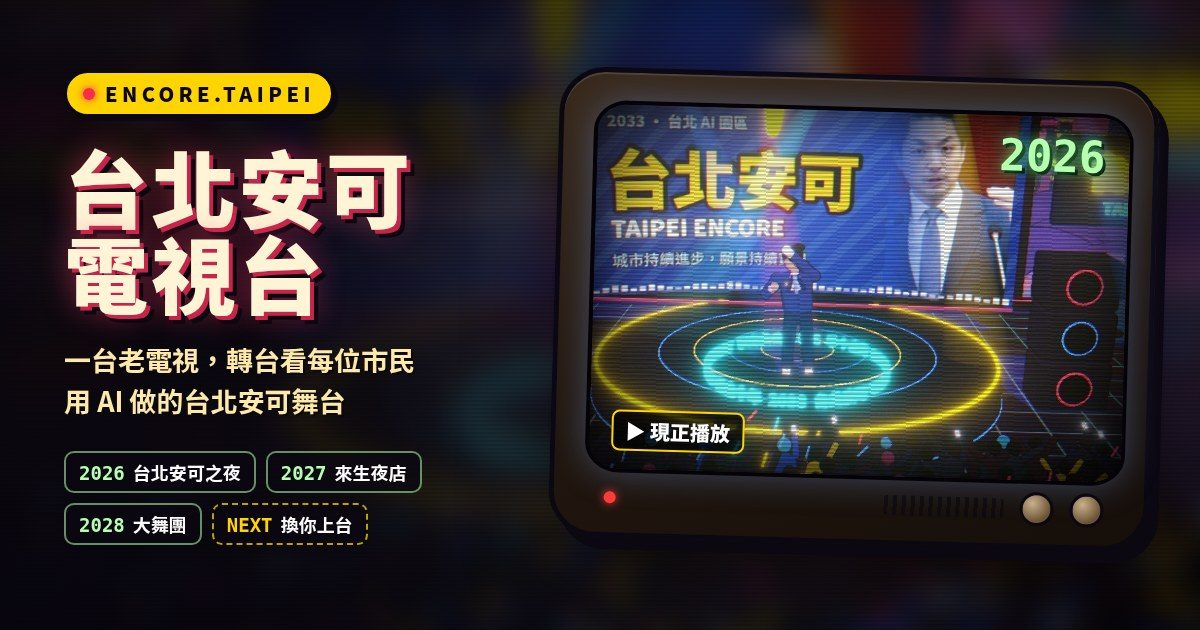
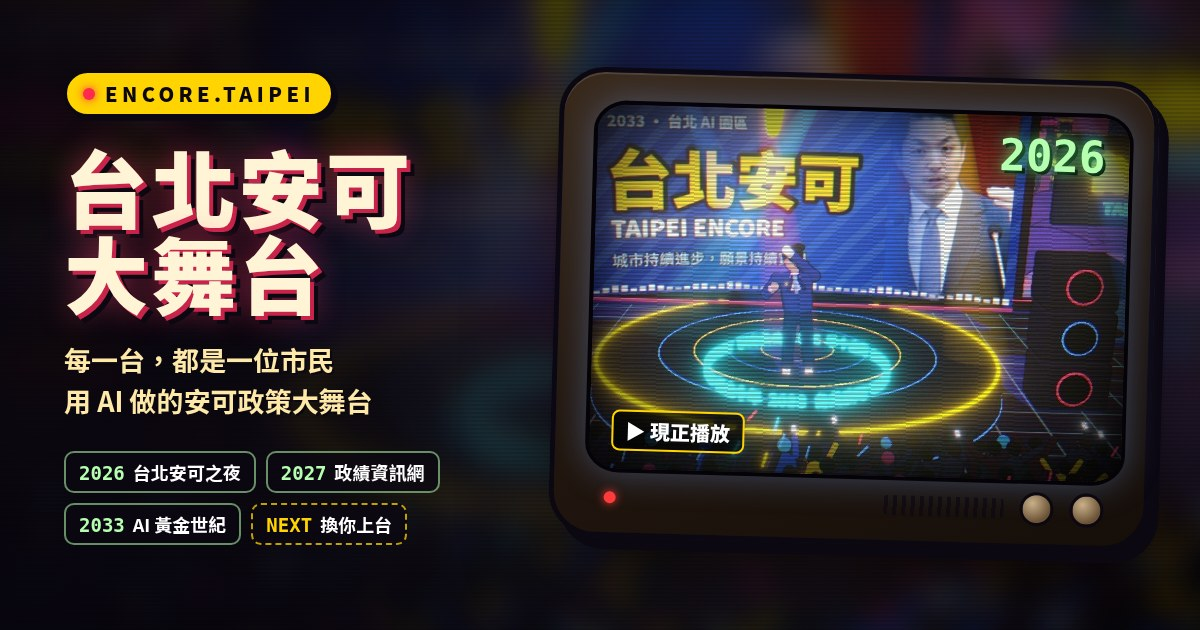
台北安可大舞台 brand everywhere, new opening line, home share text, pill buttons for the opening choices (ported from the beta)

Changed region(s): [[0.0308, 0.5429, 0.3392, 0.6635], [0.0308, 0.3619, 0.2158, 0.5127], [0.0617, 0.7238, 0.37, 0.8746]]

diff --git a/index.html b/index.html
@@ -6,26 +6,26 @@
     <meta name="viewport" content="width=device-width, initial-scale=1.0, viewport-fit=cover" />
     <meta name="theme-color" content="#0b0906" />
     <meta name="referrer" content="strict-origin-when-cross-origin" />
-    <title>台北安可大舞台 ENCORE.TAIPEI｜每一台都是市民用 AI 做的台北安可舞台</title>
+    <title>台北安可大舞台｜台北安可之夜・蔣萬安黃金十年政見 3D 互動派對</title>
     <meta
       name="description"
-      content="打開電視就是第 2026 台〈台北安可之夜〉：2033 年台北 AI 園區的夜店，蔣萬安在台上跳舞，黃金十年政見 3D 飛進場。拿起遙控器往下轉，每一台都是市民用 AI 親手做的台北安可舞台，你也可以上架一台。"
+      content="打開電視就是第 2026 台〈台北安可之夜〉：2033 年台北 AI 園區的夜店，蔣萬安在台上跳舞，黃金十年政見 3D 飛進場，台下高喊四年政績。拿起遙控器轉台，每一台都是一位市民用 AI 做的安可政策大舞台，你也可以上台。"
     />
-    <meta name="keywords" content="台北安可,蔣萬安,台北安可大舞台,台北安可之夜,ENCORE.TAIPEI,台北安可電視台,AI 創作,市民創作,3D 互動" />
+    <meta name="keywords" content="台北安可,蔣萬安,台北安可大舞台,台北安可之夜,黃金十年,ENCORE.TAIPEI,AI 創作,市民創作,3D 互動" />
     <meta name="author" content="台北安可大舞台 粉絲創作" />
 
     <meta property="og:type" content="website" />
     <meta property="og:locale" content="zh_TW" />
     <meta property="og:site_name" content="台北安可大舞台" />
-    <meta property="og:title" content="台北安可大舞台 ENCORE.TAIPEI｜每一台都是市民用 AI 做的台北安可舞台" />
-    <meta property="og:description" content="打開電視就是第 2026 台〈台北安可之夜〉，拿起遙控器往下轉，每一台都是市民用 AI 做的台北安可舞台，你也可以上架一台。" />
+    <meta property="og:title" content="台北安可大舞台｜台北安可之夜・蔣萬安黃金十年政見 3D 互動派對" />
+    <meta property="og:description" content="打開電視就是第 2026 台〈台北安可之夜〉：蔣萬安在台上跳舞，黃金十年政見 3D 飛進場。拿起遙控器轉台，每一台都是一位市民用 AI 做的安可政策大舞台。" />
     <meta property="og:image" content="%SITE_ROOT%og/home.jpg" />
     <meta property="og:image:width" content="1200" />
     <meta property="og:image:height" content="630" />
     <meta property="og:image:alt" content="台北安可之夜：霓虹舞台上的市長和揮著螢光棒的群眾" />
     <meta name="twitter:card" content="summary_large_image" />
-    <meta name="twitter:title" content="台北安可大舞台 ENCORE.TAIPEI｜每一台都是市民用 AI 做的台北安可舞台" />
-    <meta name="twitter:description" content="打開電視就是第 2026 台〈台北安可之夜〉，拿起遙控器往下轉，每一台都是市民用 AI 做的台北安可舞台，你也可以上架一台。" />
+    <meta name="twitter:title" content="台北安可大舞台｜台北安可之夜・蔣萬安黃金十年政見 3D 互動派對" />
+    <meta name="twitter:description" content="打開電視就是第 2026 台〈台北安可之夜〉：蔣萬安在台上跳舞，黃金十年政見 3D 飛進場。拿起遙控器轉台，每一台都是一位市民用 AI 做的安可政策大舞台。" />
     <meta name="twitter:image" content="%SITE_ROOT%og/home.jpg" />
 
     <script type="application/ld+json">
@@ -34,7 +34,7 @@
         "@type": "CollectionPage",
         "name": "台北安可大舞台",
         "alternateName": "ENCORE.TAIPEI",
-        "description": "收錄市民用 AI 創作的台北安可 3D 舞台，一台電視、一個頻道一座舞台。",
+        "description": "收錄市民用 AI 創作的台北安可 3D 舞台：拿起遙控器轉台，每一台都是一座安可政策大舞台。第 2026 台是〈台北安可之夜〉。",
         "inLanguage": "zh-Hant-TW",
         "isAccessibleForFree": true
       }
@@ -44,7 +44,7 @@
     <div id="root"></div>
     <noscript>
       <h1>台北安可大舞台 ENCORE.TAIPEI</h1>
-      <p>空房間裡一台老電視。第 2026 台是〈台北安可之夜〉，往下轉，每一台都是市民用 AI 親手做的台北安可舞台。請開啟 JavaScript 打開電視。</p>
+      <p>每一台，都是一位市民用 AI 做的安可政策大舞台。第 2026 台是〈台北安可之夜〉。請開啟 JavaScript 打開電視。</p>
     </noscript>
     <script type="module" src="/src/tv/main.tsx"></script>
   </body>

diff --git a/src/tv/TvApp.tsx b/src/tv/TvApp.tsx
@@ -1,5 +1,5 @@
 import { lazy, Suspense, useCallback, useEffect, useMemo, useRef, useState } from 'react'
-import { Volume2 } from 'lucide-react'
+import { Building2, Clapperboard, Volume2 } from 'lucide-react'
 import { track } from '@/lib/analytics'
 import { edgeSmoother, rgbHex, setPageEdgeColor, type Rgb } from '@/lib/page-edge'
 import { FIRST_CHANNEL, fetchLiveChannels, type Channel } from './channel-data'
@@ -93,7 +93,7 @@ export function TvApp() {
       const slot = s.dial[s.index]
       if (!slot) return
       const title = slot.kind === 'empty' ? '訊號徵求中' : slot.channel.title
-      syncUrl(slot.number, `第 ${slot.number} 台｜${title}｜台北安可電視台`)
+      syncUrl(slot.number, `第 ${slot.number} 台｜${title}｜台北安可大舞台`)
     }
     sync()
     return useTv.subscribe((s, prev) => {
@@ -301,7 +301,7 @@ export function TvApp() {
 
   return (
     <main className="relative h-full w-full overflow-hidden bg-black">
-      <h1 className="sr-only">台北安可電視台 ENCORE.TAIPEI：轉台看每個人做的台北安可舞台</h1>
+      <h1 className="sr-only">台北安可大舞台 ENCORE.TAIPEI：轉台看每一位市民用 AI 做的安可政策大舞台</h1>
 
       {phase === 'tv' && (
         <>
@@ -362,10 +362,8 @@ export function TvApp() {
       {phase === 'gate' && !resuming && (
         <div className="fixed inset-0 z-30 flex flex-col items-center justify-end bg-[radial-gradient(ellipse_at_50%_35%,transparent_30%,rgba(0,0,0,0.65))] p-6 pb-[max(2.5rem,env(safe-area-inset-bottom))] text-center">
           <p className="tv-caption text-xs font-black tracking-[0.5em] text-[#ffd400]/90">ENCORE.TAIPEI</p>
-          <h2 className="tv-caption mt-2 text-[34px] leading-none font-black tracking-[0.08em] text-[#fff4d6] sm:text-[52px]">台北安可電視台</h2>
-          <p className="tv-caption mt-3 max-w-md text-sm leading-relaxed text-[#f3e6bf]/85 sm:text-base">
-            空房間裡有一台電視。每一台，都是一位市民用 AI 做的台北安可舞台。
-          </p>
+          <h2 className="tv-caption mt-2 text-[34px] leading-none font-black tracking-[0.08em] text-[#fff4d6] sm:text-[52px]">台北安可大舞台</h2>
+          <p className="tv-caption mt-3 max-w-md text-sm leading-relaxed text-[#f3e6bf]/85 sm:text-base">每一台，都是一位市民用 AI 做的安可政策大舞台。</p>
           <p className="sound-hint mt-5 inline-flex items-center gap-2 rounded-full border-2 border-[#ffd400]/80 bg-black/55 px-4 py-1.5 text-sm font-black text-[#ffd400] sm:text-base">
             <Volume2 className="sound-hint-icon size-5 shrink-0" aria-hidden />
             請打開電腦或手機的聲音，效果最好
@@ -379,14 +377,18 @@ export function TvApp() {
           >
             ▶ 打開電視 · 第 {deepLink ?? FIRST_CHANNEL} 台
           </button>
-          {!deepLink && (
-            <button type="button" className="tv-caption mt-4 text-sm text-white/70 underline underline-offset-4 hover:text-white" onClick={() => powerOn(false)}>
-              從頭看開場：台北安可新聞特輯
-            </button>
-          )}
-          <a href={`${BASE}tower/`} className="tv-caption mt-3 text-sm font-bold text-[#ffd400]/90 underline underline-offset-4 hover:text-[#ffd400]">
-            新玩法：搭無人機逛「台北安可大樓」→
-          </a>
+          <div className="mt-4 flex flex-wrap items-center justify-center gap-2">
+            {!deepLink && (
+              <button type="button" className="gate-chip" onClick={() => powerOn(false)}>
+                <Clapperboard className="size-4 shrink-0 text-white/70" aria-hidden />
+                從頭看開場・台北安可新聞特輯
+              </button>
+            )}
+            <a href={`${BASE}tower/`} className="gate-chip">
+              <Building2 className="size-4 shrink-0 text-[#ffd400]" aria-hidden />
+              <span className="text-[#ffd400]">新玩法</span>搭無人機逛台北安可大樓
+            </a>
+          </div>
           {DUO_MODE === 'tv' && (
             <p className="tv-caption mt-3 max-w-sm text-sm font-bold text-[#b6ffb0]">電視模式：打開後，用另一支手機掃畫面上的 QR code 當遙控器。</p>
           )}

diff --git a/src/submit/SubmitApp.tsx b/src/submit/SubmitApp.tsx
@@ -17,7 +17,7 @@ const REDIRECT_MS = 2600
 const STEPS = [
   ['用 AI 做舞台', '按下面的按鈕複製完整 prompt，貼給 Cursor、Claude、Gemini 或 ChatGPT。不會寫程式也沒關係，用說的就好。'],
   ['部署成公開網址', '請 AI 幫你放到 GitHub Pages、Vercel、Cloudflare Pages 或 Netlify（都有免費方案）。網址要是 https，而且允許被 iframe 嵌入。'],
-  ['回來這裡上架', '貼上網址送出，馬上帶你到電視台預覽。管理員審核通過後，所有人都看得到。'],
+  ['回來這裡上架', '貼上網址送出，馬上帶你到大舞台預覽。管理員審核通過後，所有人都看得到。'],
 ] as const
 
 const RULES = [
@@ -77,7 +77,7 @@ export function SubmitApp() {
         </a>
         <nav className="flex gap-2">
           <a href={TV_URL} className="ink-btn flex items-center gap-1.5 px-3 py-1.5 text-sm">
-            <Tv className="size-4" /> 電視台
+            <Tv className="size-4" /> 大舞台
           </a>
           <a href={TOWER_URL} className="ink-btn flex items-center gap-1.5 px-3 py-1.5 text-sm">
             <Building2 className="size-4" /> 大樓
@@ -92,13 +92,13 @@ export function SubmitApp() {
           </p>
           <h1 className="submit-title mt-5 text-[56px] leading-none font-black tracking-[0.04em] sm:text-[76px]">換你上台</h1>
           <p className="mt-6 max-w-xl text-lg leading-relaxed font-bold text-[#ffe9a8]">
-            用 AI 做一座你自己的台北安可舞台，貼上網址就能上架。送出後馬上在電視台第 {next ?? '…'} 台預覽，審核通過後正式開播，也會變成台北安可大樓的
+            用 AI 做一座你自己的台北安可舞台，貼上網址就能上架。送出後馬上在大舞台第 {next ?? '…'} 台預覽，審核通過後正式開播，也會變成台北安可大樓的
             {next ? ` ${next} ` : ' '}樓。
           </p>
           <p className="mt-3 text-sm text-white/55">
             目前已有 {channels ? channels.length : '…'} 台開播。先去
             <a href={TV_URL} className="mx-1 underline underline-offset-2 hover:text-white">
-              電視台
+              大舞台
             </a>
             或
             <a href={TOWER_URL} className="mx-1 underline underline-offset-2 hover:text-white">
@@ -117,7 +117,7 @@ export function SubmitApp() {
                 </span>
                 <h2 className="mt-4 text-2xl font-black">送出成功！</h2>
                 <p className="mt-2 leading-relaxed text-[#2a2f52]">
-                  「{sent.title}」已經送進審核。現在帶你到電視台第 <b>{sent.channel}</b> 台預覽（只有你看得到）。
+                  「{sent.title}」已經送進審核。現在帶你到大舞台第 <b>{sent.channel}</b> 台預覽（只有你看得到）。
                 </p>
                 <a href={channelPath(sent.channel)} className="ink-btn mt-5 inline-flex items-center gap-2 px-5 py-2.5 text-base" data-on="true">
                   馬上去看 <ArrowRight className="size-4" />
@@ -127,13 +127,13 @@ export function SubmitApp() {
               <>
                 <h2 className="text-2xl font-black text-[#13204f]">上架第 {next ?? '…'} 台</h2>
                 <p className="mt-1 text-sm leading-relaxed text-[#4a4f6e]">
-                  送出後馬上帶你到電視台預覽。管理員審核通過才會正式上架，號碼可能會變動。
+                  送出後馬上帶你到大舞台預覽。管理員審核通過才會正式上架，號碼可能會變動。
                 </p>
                 {waiting && (
                   <p className="mt-3 rounded-xl border-2 border-[#0c0812] bg-[#fff6d6] p-2.5 text-sm text-[#2a2f52]">
                     你送出的「{waiting.title}」還在審核中，可以到
                     <a href={channelPath(next ?? waiting.channel)} className="mx-1 font-black text-[#1f4fd1] underline underline-offset-2">
-                      電視台
+                      大舞台
                     </a>
                     預覽。再送一件的話，預覽會換成新的作品。
                   </p>

diff --git a/src/tv/prompts.ts b/src/tv/prompts.ts
@@ -13,7 +13,7 @@ export const STARTER_PROMPT = `幫我做一個 3D 互動網站：我的「台北
 - 要求：手機和電腦都能玩；可以被別的網站用 iframe 嵌入；最後幫我部署成公開的 https 網址。
 - 規範：內容友善正向，不攻擊、不抹黑任何人或政黨；照片、音樂、字型只用自己做的、公有領域或有授權的素材，並標示來源；頁面上註明「粉絲創作，非官方網站」。`
 
-export const PROTOCOL = `// 選用：讓台北安可電視台的遙控器控制你的舞台
+export const PROTOCOL = `// 選用：讓台北安可大舞台的遙控器控制你的舞台
 window.addEventListener('message', (e) => {
   if (e.data?.type === 'encore:volume') {
     // e.data.volume：0～1，e.data.muted：true / false
@@ -33,7 +33,7 @@ window.addEventListener('keydown', (e) => {
 export function agentPrompt() {
   const site = `${location.origin}${import.meta.env.BASE_URL}`
   const submit = `${location.origin}${SUBMIT_PATH}`
-  return `你是我的 AI 寫程式助手。請帶我做一座「台北安可」3D 舞台網站，做好後我要把它上架到「台北安可電視台」（${site}）的一個頻道。
+  return `你是我的 AI 寫程式助手。請帶我做一座「台北安可」3D 舞台網站，做好後我要把它上架到「台北安可大舞台」（${site}）的一個頻道。
 括號裡的部分請先問我想要什麼；我沒意見的話，就由你決定一個好看的版本。
 
 ## 一、舞台內容
@@ -42,7 +42,7 @@ ${STARTER_PROMPT}
 
 ## 二、選用：讓電視遙控器控制舞台
 
-你的網站會被台北安可電視台用 iframe 嵌入。加上下面這段，遙控器的音量就能控制舞台，Duo 手機遙控器的紅綠黃藍彩色鍵也會傳給你（例如綠色鍵換一批表演者），觀眾在舞台裡按 ← → 也能轉台：
+你的網站會被台北安可大舞台用 iframe 嵌入。加上下面這段，遙控器的音量就能控制舞台，Duo 手機遙控器的紅綠黃藍彩色鍵也會傳給你（例如綠色鍵換一批表演者），觀眾在舞台裡按 ← → 也能轉台：
 
 \`\`\`js
 ${PROTOCOL}
@@ -58,5 +58,5 @@ ${making.prompt}
 
 1. 部署成公開的 https 網址（GitHub Pages、Vercel、Cloudflare Pages 或 Netlify 都有免費方案）。不要用 X-Frame-Options 或 CSP frame-ancestors 擋住 iframe 嵌入。
 2. 給我網址，並幫我寫一段 80 字內的作品介紹和製作工具清單。
-3. 告訴我：打開上架頁 ${submit} 貼上網址（或在電視台轉到「訊號徵求中」那一台按「上架這一台」），送出後馬上就能在電視台預覽；審核通過後正式上架。`
+3. 告訴我：打開上架頁 ${submit} 貼上網址（或在大舞台轉到「訊號徵求中」那一台按「上架這一台」），送出後馬上就能在大舞台預覽；審核通過後正式上架。`
 }

diff --git a/scripts/channel-pages.ts b/scripts/channel-pages.ts
@@ -12,7 +12,7 @@ const FONTS = ['og-black.ttf', 'og-medium.ttf'].map((f) => path.resolve(import.m
 /** Screenshots are reused from the live site until the stage's URL or title changes, or they get this old. */
 const SHOT_MAX_AGE_DAYS = 7
 /** Bump to re-shoot every channel once (e.g. after changing how shots are taken). */
-const SHOT_VERSION = 2
+const SHOT_VERSION = 3
 /** YouTube channels get their own key, so a screenshot taken of the YouTube page before they were embedded is retaken. */
 const shotKey = (ch: Channel) => `${SHOT_VERSION}|${youtubeId(ch.url) ? 'youtube|' : ''}${ch.url}|${ch.title}`
 /** Hand-made share images for the built-in stages, keyed by stage URL so renumbering channels can't mix them up. */
@@ -72,7 +72,7 @@ function channelCard(n: number, live: boolean) {
   const bars = BARS.map((c, i) => `<rect x="${100 + (i * 1000) / 7}" y="66" width="${1000 / 7 + 1}" height="330" fill="${c}"/>`).join('')
   const body = live
     ? `<text x="1050" y="190" text-anchor="end" font-family="Noto Sans TC" font-weight="900" font-size="150" fill="#b6ffb0" filter="url(#glow)">${n}</text>
-       <text x="150" y="470" font-family="Noto Sans TC" font-weight="900" font-size="64" fill="#ffffff">台北安可電視台</text>
+       <text x="150" y="470" font-family="Noto Sans TC" font-weight="900" font-size="64" fill="#ffffff">台北安可大舞台</text>
        <text x="150" y="530" font-family="Noto Sans TC" font-weight="500" font-size="34" fill="#c9d3ff">ENCORE.TAIPEI · 第 ${n} 台 · 現正播放</text>`
     : `${bars}
        <rect x="100" y="396" width="1000" height="168" fill="#101010"/>
@@ -99,7 +99,7 @@ function shotPage(src: string, n: number, title: string) {
 </style></head><body>
 <img src="${esc(src)}" alt="">
 <div class="osd">${n}</div>
-<div class="tag"><b>台北安可電視台</b><span>第 ${n} 台・${esc(title)}</span></div>
+<div class="tag"><b>台北安可大舞台</b><span>第 ${n} 台・${esc(title)}</span></div>
 </body></html>`
 }
 
@@ -341,7 +341,7 @@ export function channelPages({ siteUrl, base }: { siteUrl: string; base: string 
           image = versioned(`${n}.png`)
         }
         const html = setMeta(template, {
-          title: ch ? `第 ${n} 台｜${ch.title}｜台北安可電視台` : `第 ${n} 台｜訊號徵求中｜台北安可電視台`,
+          title: ch ? `第 ${n} 台｜${ch.title}｜台北安可大舞台` : `第 ${n} 台｜訊號徵求中｜台北安可大舞台`,
           description: ch
             ? `${ch.author} 做的台北安可舞台。${ch.message ?? ''}`.slice(0, 160)
             : `這一台還空著。用 AI 做一座你的台北安可舞台，送出就能佔下第 ${n} 台。`,

diff --git a/submit/index.html b/submit/index.html
@@ -9,23 +9,23 @@
     <title>換你上台｜上架你的台北安可舞台｜ENCORE.TAIPEI</title>
     <meta
       name="description"
-      content="用 AI 做一座你自己的台北安可舞台，貼上網址就能上架：送出後馬上在台北安可電視台預覽，審核通過後正式成為一個頻道，也是台北安可大樓的一層樓。"
+      content="用 AI 做一座你自己的台北安可舞台，貼上網址就能上架：送出後馬上在台北安可大舞台預覽，審核通過後正式成為一個頻道，也是台北安可大樓的一層樓。"
     />
-    <meta name="keywords" content="台北安可,上架,投稿,台北安可電視台,台北安可大樓,ENCORE.TAIPEI,AI 創作,市民創作" />
-    <meta name="author" content="台北安可電視台 粉絲創作" />
+    <meta name="keywords" content="台北安可,上架,投稿,台北安可大舞台,台北安可大樓,ENCORE.TAIPEI,AI 創作,市民創作" />
+    <meta name="author" content="台北安可大舞台 粉絲創作" />
 
     <meta property="og:type" content="website" />
     <meta property="og:locale" content="zh_TW" />
-    <meta property="og:site_name" content="台北安可電視台" />
+    <meta property="og:site_name" content="台北安可大舞台" />
     <meta property="og:title" content="換你上台｜上架你的台北安可舞台" />
-    <meta property="og:description" content="用 AI 做一座你的台北安可舞台，貼上網址就能上架，送出後馬上在電視台預覽。" />
+    <meta property="og:description" content="用 AI 做一座你的台北安可舞台，貼上網址就能上架，送出後馬上在大舞台預覽。" />
     <meta property="og:image" content="%SITE_ROOT%og/submit.jpg" />
     <meta property="og:image:width" content="1200" />
     <meta property="og:image:height" content="630" />
     <meta property="og:image:alt" content="老電視播著彩色測試畫面，寫著訊號徵求中，旁邊大字：換你上台" />
     <meta name="twitter:card" content="summary_large_image" />
     <meta name="twitter:title" content="換你上台｜上架你的台北安可舞台" />
-    <meta name="twitter:description" content="用 AI 做一座你的台北安可舞台，貼上網址就能上架，送出後馬上在電視台預覽。" />
+    <meta name="twitter:description" content="用 AI 做一座你的台北安可舞台，貼上網址就能上架，送出後馬上在大舞台預覽。" />
     <meta name="twitter:image" content="%SITE_ROOT%og/submit.jpg" />
   </head>
   <body>

diff --git a/src/tv/finale/Credits.tsx b/src/tv/finale/Credits.tsx
@@ -25,7 +25,7 @@ export function Credits({ duration, onEnd }: { duration: number; onEnd: () => vo
   }, [])
   const blocks = useMemo<Block[]>(
     () => [
-      { big: '台北安可電視台', sub: 'ENCORE.TAIPEI' },
+      { big: '台北安可大舞台', sub: 'ENCORE.TAIPEI' },
       {
         title: '頻道',
         rows: [...channels.map((c) => [`第 ${c.channel} 台`, `${c.title}｜${c.author}`] as [string, string]), [`第 ${Math.max(2026, ...channels.map((c) => c.channel)) + 1} 台`, '等你來做']],
@@ -61,7 +61,7 @@ export function Credits({ duration, onEnd }: { duration: number; onEnd: () => vo
         title: '製作數字（估算）',
         rows: [
           ['第 2026 台', `${wan(making.tokens.total)} tokens・約 US$${making.usd}（NT$${nf.format(making.twd)}）`],
-          ['電視台本身', `${wan(tvMaking.tokens.total)} tokens・約 US$${tvMaking.usd}（NT$${nf.format(tvMaking.twd)}）`],
+          ['大舞台本身', `${wan(tvMaking.tokens.total)} tokens・約 US$${tvMaking.usd}（NT$${nf.format(tvMaking.twd)}）`],
           ['模型', `${making.model}・依官方牌價與央行匯率 ${making.fx.rate} 估算`],
         ],
       },

diff --git a/src/tv/tv.css b/src/tv/tv.css
@@ -265,6 +265,31 @@ body,
 .gate-pulse {
   animation: gate-pulse 2.2s ease-in-out infinite;
 }
+/* Secondary choices under the power button: glass pills, quieter than the yellow ink button. */
+.gate-chip {
+  display: inline-flex;
+  align-items: center;
+  gap: 0.4rem;
+  border: 1.5px solid rgba(255, 244, 214, 0.32);
+  border-radius: 999px;
+  background: rgba(10, 8, 18, 0.55);
+  padding: 0.4rem 0.95rem;
+  font-family: 'NotoTC', 'Noto Sans TC', ui-sans-serif, system-ui, sans-serif;
+  font-size: 0.875rem;
+  font-weight: 700;
+  color: rgba(255, 244, 214, 0.88);
+  backdrop-filter: blur(6px);
+  transition:
+    background 0.15s,
+    border-color 0.15s,
+    color 0.15s;
+}
+.gate-chip:hover,
+.gate-chip:focus-visible {
+  border-color: rgba(255, 212, 0, 0.75);
+  background: rgba(10, 8, 18, 0.78);
+  color: #fff4d6;
+}
 @keyframes gate-pulse {
   50% {
     opacity: 0.45;

diff --git a/scripts/og/tv-card.html b/scripts/og/tv-card.html
@@ -45,12 +45,12 @@
 <div class="bg"></div><div class="tint"></div><div class="grain"></div>
 <div class="copy">
   <span class="chip"><span class="dot"></span>ENCORE.TAIPEI</span>
-  <h1>台北安可<br>電視台</h1>
-  <p class="sub">一台老電視，轉台看每位市民<br>用 AI 做的台北安可舞台</p>
+  <h1>台北安可<br>大舞台</h1>
+  <p class="sub">每一台，都是一位市民<br>用 AI 做的安可政策大舞台</p>
   <div class="chans">
     <span class="ch"><b>2026</b>台北安可之夜</span>
-    <span class="ch"><b>2027</b>來生夜店</span>
-    <span class="ch"><b>2028</b>大舞團</span>
+    <span class="ch"><b>2027</b>政績資訊網</span>
+    <span class="ch"><b>2033</b>AI 黃金世紀</span>
     <span class="ch next"><b>NEXT</b>換你上台</span>
   </div>
 </div>

diff --git a/src/tv/duo/DuoPairPanel.tsx b/src/tv/duo/DuoPairPanel.tsx
@@ -112,7 +112,7 @@ export function DuoPairPanel({ room, status, remotes, joins }: { room: string; s
               <QrCode text={link} />
             </div>
             <div className="min-w-0 text-center sm:text-left landscape:text-left">
-              <p className="text-[11px] font-black tracking-[0.25em] text-[#c8234a]">台北安可電視台 · 窮人版 DUO</p>
+              <p className="text-[11px] font-black tracking-[0.25em] text-[#c8234a]">台北安可大舞台 · 窮人版 DUO</p>
               <p className="mt-1.5 text-xl leading-snug font-black">用另一支手機的相機，掃這個 QR code 當遙控器</p>
               <p className="mt-3 text-xs font-bold text-[#4a4f6e]">或在遙控器輸入配對碼</p>
               {code && 'code' in code ? (

diff --git a/src/tv/components/SubmitForm.tsx b/src/tv/components/SubmitForm.tsx
@@ -200,7 +200,7 @@ export function SubmitFields({ number, unit = '台', onDone }: { number?: number
       <label className="flex items-start gap-2 text-sm text-[#2a2f52]">
         <input name="agree" type="checkbox" required className="mt-1 size-4 accent-[#1f4fd1]" />
         <span>
-          我同意作品名稱、網址、名字、說明與 prompt 公開展示在台北安可電視台。作品內容友善正向、不攻擊或抹黑任何人與政黨，
+          我同意作品名稱、網址、名字、說明與 prompt 公開展示在台北安可大舞台。作品內容友善正向、不攻擊或抹黑任何人與政黨，
           使用的照片、音樂與字型都有授權；不符合的作品不會上架。
         </span>
       </label>

diff --git a/tower/index.html b/tower/index.html
@@ -12,7 +12,7 @@
       content="一棟玻璃帷幕大樓，每一層樓都是一位市民用 AI 做的台北安可派對。開著無人機繞大樓、隔著落地窗看每層的派對，點一下飛進去；頂樓是紐約風空中花園，掛著「台北安可 黃金十年」燈泡招牌，還能和大家聊天。你也可以租下一層。"
     />
     <meta name="keywords" content="台北安可,台北安可大樓,蔣萬安,黃金十年,ENCORE.TAIPEI,AI 創作,市民創作,3D 互動" />
-    <meta name="author" content="台北安可電視台 粉絲創作" />
+    <meta name="author" content="台北安可大舞台 粉絲創作" />
 
     <meta property="og:type" content="website" />
     <meta property="og:locale" content="zh_TW" />
